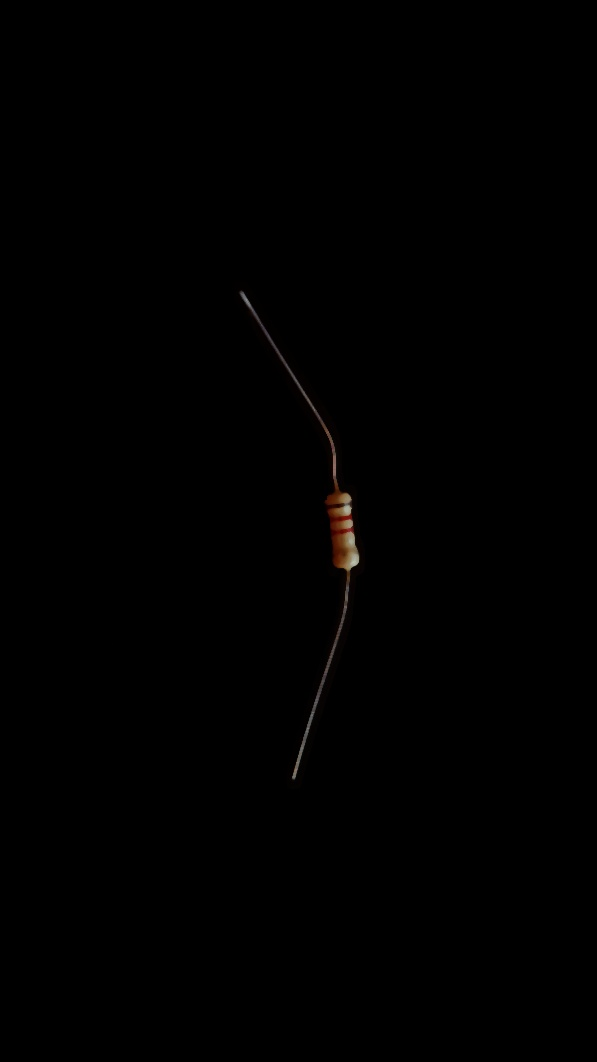
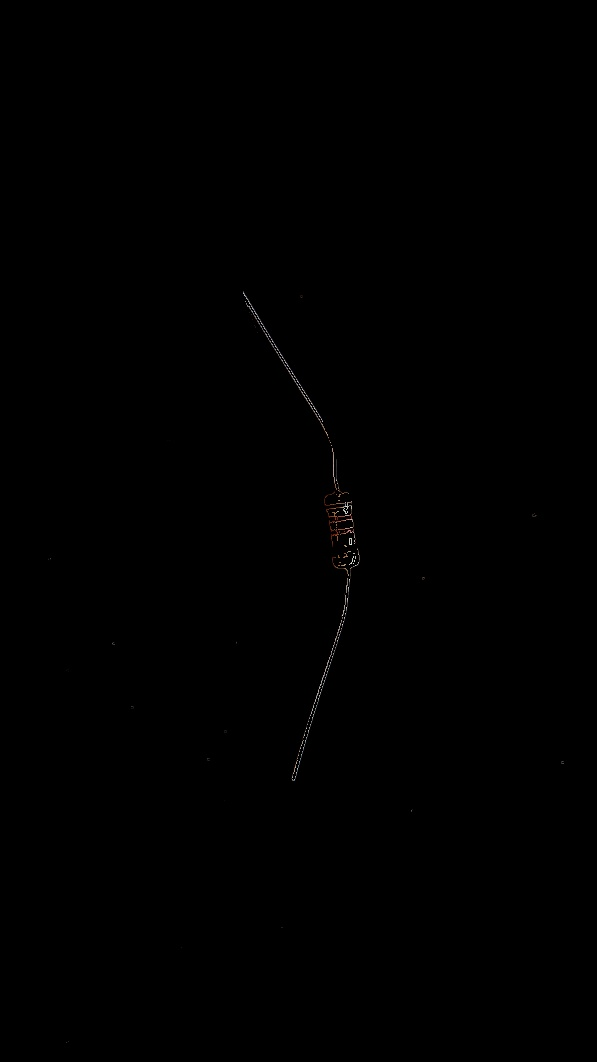
Adjusted binary mask so portion left of resistor is rectangular. Also started to add color calibration using the color checker image.

diff --git a/resistor_identifier/resistor_identifier.py b/resistor_identifier/resistor_identifier.py
@@ -13,7 +13,40 @@ cx = []
 cy = []
 
 
-def gamma_correction(res):
+
+
+def set_color(color_checker):
+    
+    color_checker = cv2.imread(color_checker)
+    rows, columns, dim = color_checker.shape
+    scale= 0.2
+    color_checker = cv2.resize(color_checker, (int(columns*scale), int(rows*scale)))
+    rows, columns, dim = color_checker.shape
+
+    gray_color = cv2.cvtColor(color_checker, cv2.COLOR_BGR2GRAY)
+    cv2.imshow('Color checker', gray_color)
+    cv2.waitKey(0)
+    cv2.destroyAllWindows()
+    # detect edges, dilate, close gaps, erode
+    canny_color = set_canny(gray_color)
+    dilate_color = set_dilate(canny_color)
+    close_color = set_close(dilate_color)
+    erode_color = set_erode(close_color)
+    processed_color = erode_color
+    processed_color = cv2.bitwise_not(processed_color)
+
+    params = cv2.SimpleBlobDetector_Params()
+    params.filterByArea = True
+    params.minArea = 1000
+
+    detector = cv2.SimpleBlobDetector_create(params)
+    keypoints = detector.detect(processed_color)
+    keypoints_color = cv2.drawKeypoints(processed_color, keypoints, np.array([]), (0, 0, 255), cv2.DRAW_MATCHES_FLAGS_DRAW_RICH_KEYPOINTS)
+    cv2.imshow('Keypoints', keypoints_color)
+    cv2.waitKey(0)
+
+
+def set_gamma(res):
 
     def nothing(x):
         pass
@@ -38,6 +71,8 @@ def gamma_correction(res):
             break
 
     return res
+
+
 
 def set_median(res):
 
@@ -209,30 +244,50 @@ def process_image(input_image):
 
     # 1.1) gamma correction
     # cv2.imshow('Set Gamma correction', res)
-    res = gamma_correction(res)
+    res = set_gamma(res)
+    cv2.destroyAllWindows()
     
     # 2) filter out noise (e.g. white glare/reflection)
     median_res = set_median(res)
+    cv2.destroyAllWindows()
 
     # 3) convert to grayscale
     gray_res = cv2.cvtColor(res, cv2.COLOR_BGR2GRAY)
 
     # 4) run Canny edge detection
     canny_res = set_canny(gray_res)
+    cv2.destroyAllWindows()
   
     # 5) set the structuring element (kernel) separately for each of the following operations
     
     # 6) dilate edged image
     dilated_res = set_dilate(canny_res)
+    cv2.destroyAllWindows()
  
     # 7) closing dilated image
     closed_res = set_close(dilated_res)
+    cv2.destroyAllWindows()
 
     # 8) eroding image to get back to normal size
     eroded_res = set_erode(closed_res)
+    cv2.destroyAllWindows()
     
     # 9) dilate one more time to get binary filtered image
     filtered_res = set_dilate(eroded_res)
+    cv2.destroyAllWindows()
+
+    # 9.1) compute the rotated bounding box of the largest contour (rectangular)
+    # for cv2.findContours, first param is the image, second param tells OpenCV to compute the heirarchy
+    # (relationship) between contours, and third param tells OpenCV to compress the contours to save space
+    (_, contours, _) = cv2.findContours(filtered_res.copy(), cv2.RETR_EXTERNAL, cv2.CHAIN_APPROX_SIMPLE)
+    sorted_contours = sorted(contours, key = cv2.contourArea, reverse = True)[0]
+    rectangle = cv2.minAreaRect(sorted_contours)
+    box = np.int0(cv2.boxPoints(rectangle))
+    cv2.drawContours(filtered_res, [box], -1, (0, 255, 0), 3)
+    cv2.namedWindow('Contours')
+    cv2.imshow('Contours', filtered_res)
+    cv2.waitKey(0)
+    cv2.destroyAllWindows()
 
     # 10) original image with the filtered image as a binary mask
     mask = filtered_res
@@ -454,7 +509,7 @@ def calculate_value(color_array):
 
 
 
-    
-process_image('resistor_black_background.jpg')
+set_color('color_checker.jpg')    
+# process_image('resistor_black_background.jpg')
 
 

diff --git a/resistor_identifier/color_calibrate.py b/resistor_identifier/color_calibrate.py
@@ -1,0 +1,23 @@
+#!/usr/bin/env python
+import numpy as np
+import math
+import cv2
+from time import sleep
+
+
+color_checker = cv2.imread('color_checker.jpg')
+
+rows, columns, dim = color_checker.shape
+scale= 0.2
+color_checker = cv2.resize(color_checker, (int(columns*scale), int(rows*scale)))
+rows, columns, dim = color_checker.shape
+
+gray_color = cv2.cvtColor(color_checker, cv2.COLOR_BGR2GRAY)
+cv2.imshow('', gray_color)
+cv2.waitKey(0)
+cv2.destroyAllWindows()
+
+canny_color = cv2.Canny(gray_color, 100, 200)
+cv2.imshow('Canny', canny_color)
+cv2.waitKey(0)
+cv2.destroyAllWindows()
